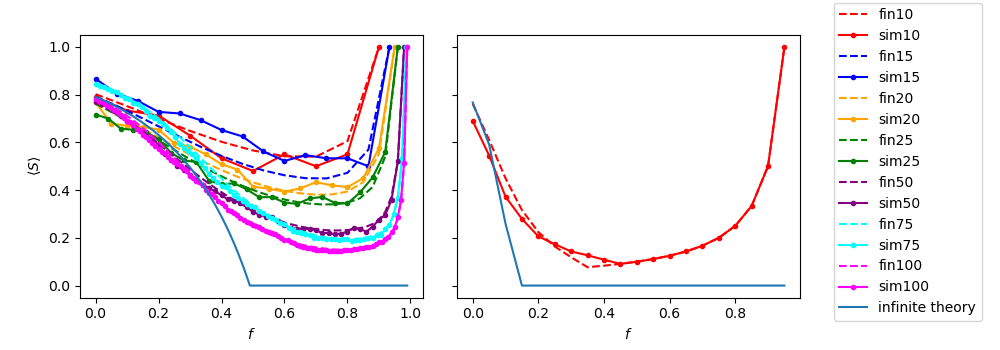
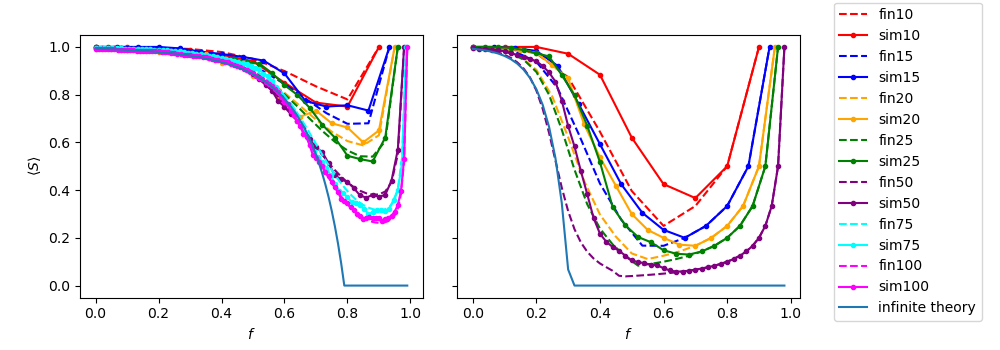
update

diff --git a/Figure 3.py b/Figure 3.py
@@ -81,7 +81,7 @@ def fig_3(total_n,total_p,remove_bool):
 
             inf_mse = ((inf-sim)**2).mean()
             fin_mse = ((fin-sim)**2).mean()
-            heatmap3[j][i-1] = inf_mse-fin_mse
+            heatmap3[j][i-1] = (inf_mse-fin_mse)
 
     heatmap0 = heatmap0.tolist()
     heatmap1 = heatmap1.tolist()
@@ -92,17 +92,17 @@ def fig_3(total_n,total_p,remove_bool):
 
     fig , ( (ax1,ax2) , (ax3,ax4)) = plt.subplots(2, 2,sharex = True,sharey=True)
     z1_plot = ax1.pcolormesh(xnodes, yprobs, heatmap0, cmap = "Reds")
-    z2_plot = ax2.pcolormesh(xnodes, yprobs, heatmap1, vmax=0.05)
+    z2_plot = ax2.pcolormesh(xnodes, yprobs, heatmap1, vmax=0.01)
     z3_plot = ax3.pcolormesh(xnodes, yprobs, heatmap3, cmap = "Blues")
     z4_plot = ax4.pcolormesh(xnodes, yprobs, heatmap2, vmax=0.2)
     add_colorbar(z1_plot)
     add_colorbar(z2_plot)
     add_colorbar(z3_plot)
     add_colorbar(z4_plot)
-    ax1.set(ylabel='p')
+    ax1.set(ylabel=r'$p$')
     #ax2.set(xlabel='nodes')
-    ax3.set(xlabel=r'N',ylabel=r'p')
-    ax4.set(xlabel=r'N')
+    ax3.set(xlabel=r'$N$',ylabel=r'$p$')
+    ax4.set(xlabel=r'$N$')
     ax1.set_title("AUC")
     ax2.set_title("MSE Finite")
     ax3.set_title("MSE Difference")
@@ -110,7 +110,7 @@ def fig_3(total_n,total_p,remove_bool):
 
     plt.savefig("Fig 3 Final")
 
-fig_3(35,100,False)
+fig_3(30,100,True)
 
 
 # #auc

diff --git a/Figure 4.py b/Figure 4.py
@@ -78,18 +78,18 @@ print(med)
 
     # n vs p with mse as colors
 plt.scatter(nodes_array, probs_array , c=mse_array, s=20, vmin = -.05, vmax = .1, cmap = "Reds")
-#plt.show()
+plt.show()
 
     # mse vs p, bin by nodes
-ax = plt.axes(projection = "3d")
+#ax = plt.axes(projection = "3d")
 #plt.scatter(probs_array, mse_array, nodes_array)
-plt.scatter(nodes_array, probs_array, mse_array)
-nbin_means,nbin_edges, nbinnumber = scipy.stats.binned_statistic(nodes_array, mse_array, statistic='mean', bins=10, range=None)
-print(nbin_means)
-print(nbin_edges)
-plt.hlines(nbin_means, nbin_edges[:-1], nbin_edges[1:], colors='g', lw=2,
-           label='bins')
-plt.show()
+# plt.scatter(nodes_array, probs_array, mse_array)
+# nbin_means,nbin_edges, nbinnumber = scipy.stats.binned_statistic(nodes_array, mse_array, statistic='mean', bins=10, range=None)
+# print(nbin_means)
+# print(nbin_edges)
+# plt.hlines(nbin_means, nbin_edges[:-1], nbin_edges[1:], colors='g', lw=2,
+#            label='bins')
+# plt.show()
 
 ## 3D stuff
 #ax = plt.axes(projection ='3d')

diff --git a/percolation graph.py b/percolation graph.py
@@ -138,7 +138,7 @@ def one_perc_thresh_table(threshold=.5, nodes=[10, 20, 30, 40, 50, 60], removal=
 
     for j in range(len(nodes_array)):
         sim_data = completeRCData(numbers_of_nodes=[nodes_array[j]],
-                                  edge_probabilities=[prob_array[j]], num_trials=100,
+                                  edge_probabilities=[prob_array[j]], num_trials=1000,
                                   performance='relative LCC', graph_types=['ER'],
                                   remove_strategies=removal)
         data_array = np.array(sim_data[0][0][0][0])
@@ -240,4 +240,4 @@ def one_perc_thresh_table(threshold=.5, nodes=[10, 20, 30, 40, 50, 60], removal=
 # plt.savefig("one_perc_graph_attack_pointfour")
 
 
-one_perc_thresh_table(threshold=.526, nodes=[20], removal=["attack"])
+one_perc_thresh_table(threshold=.2, nodes=[50], removal=["attack"])

diff --git a/libs/utils.py b/libs/utils.py
@@ -103,11 +103,11 @@ def expectedMaxDegree(n, p):
     if n == 2:
         return p
         
-    k_max = 0
+    #k_max = 0
     probs_k_or_less = np.array([binomialDistribution.cdf(k, n - 1, p) for k in range(n)])
     probs_at_least_k = np.concatenate([[1], np.array(1 - probs_k_or_less[:-1])])
-    probs_at_least_k = np.cumsum([binomialDistribution.pmf(k, n - 1, p) for k in range(n)][::-1])[::-1]
-    probs_at_least_one_node = 1 - (1 - probs_at_least_k) ** (n - k_max)
+    #probs_at_least_k = np.cumsum([binomialDistribution.pmf(k, n - 1, p) for k in range(n)][::-1])[::-1]
+    probs_at_least_one_node = 1 - (1 - probs_at_least_k) ** (n/2)
 
     # every node has at least degree zero
     #probs_at_least_one_node[0] = 1

diff --git a/Figure 2.py b/Figure 2.py
@@ -31,7 +31,7 @@ pvals = pickle.load(open('data/Pvalues.p', 'rb'))
 fig, axs = plt.subplots(1,2, figsize = [10,3.5])
 
 colors = ['red','blue','orange','green','purple','cyan','magenta']
-n_threshold = .526
+n_threshold = .2
 nodes_list = [10,15,20,25,50,75,100]
 probs_list = [(1/(n_threshold*(x-1))) for x in nodes_list]
 print(probs_list)
@@ -70,7 +70,7 @@ for i_n in range(len(nodes_list)):
     axs[0].set_position([pos.x0, pos.y0, pos.width, pos.height])
     axs[0].legend(loc='upper right', bbox_to_anchor=(2.65, 1.15))
 
-nodes_list = [20] #[10,15,20,25,50]
+nodes_list = [10,15,20,25,50]
 probs_list = [(1/(n_threshold*(x-1))) for x in nodes_list]
 print(probs_list)
 remove_bool = True
